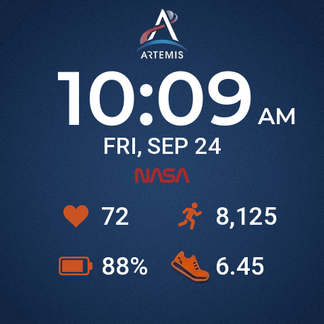
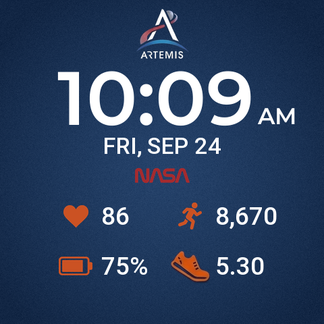
feat: add AOD mode and align watchface with Zepp OS specification

diff --git a/watchface/index.js b/watchface/index.js
@@ -3,6 +3,7 @@ import { Time, Battery, HeartRate, Step, Distance } from '@zos/sensor'
 import { getLanguage, getDistanceUnit, DISTANCE_UNIT_METRIC } from '@zos/settings'
 import { formatDate } from './date-format.js'
 import { nextChargingState } from './charging.js'
+import { formatDistance, formatThousands } from './number-format.js'
 
 // Layout constants -- keep in sync with the constants of the same name in
 // tools/generate_assets.py (measured from design/watch-face-circle.png).
@@ -22,14 +23,22 @@ const STAT_TEXT_X_RIGHT = 319
 const STAT_ROW_Y_TOP = 320
 const STAT_ROW_Y_BOTTOM = 394
 
-// battery.png / battery_charging.png position, printed by
-// tools/generate_assets.py as "battery device pos/size".
-const BATTERY_X = 87
-const BATTERY_Y = 374
+// Icon widget positions, printed by tools/generate_assets.py as
+// "power device pos/size" and "step device pos/size".
+const POWER_X = 87
+const POWER_Y = 374
+const STEP_X = 264
+const STEP_Y = 300
 
 const TIME_FONT = 'fonts/Montserrat-SemiBold.ttf'
 const TEXT_FONT = 'fonts/Roboto-Medium.ttf'
 const WHITE = 0xffffff
+
+// AOD (screen-off) shows only time, date and steps on black -- the spec's
+// priority fields, kept under its 10% lit-pixel limit (checked by
+// tools/generate_assets.py). The Zepp OS constant really is spelled ONAL_AOD.
+const NORMAL = hmUI.show_level.ONLY_NORMAL
+const NORMAL_AND_AOD = hmUI.show_level.ONLY_NORMAL | hmUI.show_level.ONAL_AOD
 
 const METERS_PER_MILE = 1609.344
 const TIME_HOUR_FORMAT_12 = 12
@@ -38,11 +47,7 @@ function pad2(n) {
   return n < 10 ? `0${n}` : `${n}`
 }
 
-function formatThousands(n) {
-  return String(n).replace(/\B(?=(\d{3})+(?!\d))/g, ',')
-}
-
-function centeredText(x, centerY, w, h, textSize, font, alignH) {
+function centeredText({ x, centerY, w, h, textSize, font, alignH, showLevel }) {
   return hmUI.createWidget(hmUI.widget.TEXT, {
     x,
     y: centerY - h / 2,
@@ -55,7 +60,18 @@ function centeredText(x, centerY, w, h, textSize, font, alignH) {
     text_size: textSize,
     font,
     text: '',
+    show_level: showLevel,
   })
+}
+
+function statText(x, centerY, w, showLevel) {
+  return centeredText({
+    x, centerY, w, h: 50, textSize: STAT_TEXT_SIZE, font: TEXT_FONT, alignH: hmUI.align.LEFT, showLevel,
+  })
+}
+
+function icon(x, y, src, showLevel) {
+  return hmUI.createWidget(hmUI.widget.IMG, { x, y, src, show_level: showLevel })
 }
 
 WatchFace({
@@ -74,19 +90,29 @@ WatchFace({
   },
 
   build() {
-    hmUI.createWidget(hmUI.widget.IMG, { x: 0, y: 0, src: 'bg.png' })
+    icon(0, 0, 'bg.png', NORMAL)
 
-    this.timeText = centeredText(0, TIME_CENTER_Y, TIME_RIGHT_X, 130, TIME_TEXT_SIZE, TIME_FONT, hmUI.align.RIGHT)
-    this.ampmText = centeredText(AMPM_X, AMPM_CENTER_Y, 70, 50, AMPM_TEXT_SIZE, TIME_FONT, hmUI.align.LEFT)
-    this.dateText = centeredText(0, DATE_CENTER_Y, 480, 50, DATE_TEXT_SIZE, TEXT_FONT, hmUI.align.CENTER_H)
+    this.timeText = centeredText({
+      x: 0, centerY: TIME_CENTER_Y, w: TIME_RIGHT_X, h: 130, textSize: TIME_TEXT_SIZE,
+      font: TIME_FONT, alignH: hmUI.align.RIGHT, showLevel: NORMAL_AND_AOD,
+    })
+    this.ampmText = centeredText({
+      x: AMPM_X, centerY: AMPM_CENTER_Y, w: 70, h: 50, textSize: AMPM_TEXT_SIZE,
+      font: TIME_FONT, alignH: hmUI.align.LEFT, showLevel: NORMAL_AND_AOD,
+    })
+    this.dateText = centeredText({
+      x: 0, centerY: DATE_CENTER_Y, w: 480, h: 50, textSize: DATE_TEXT_SIZE,
+      font: TEXT_FONT, alignH: hmUI.align.CENTER_H, showLevel: NORMAL_AND_AOD,
+    })
 
-    this.heartRateText = centeredText(STAT_TEXT_X_LEFT, STAT_ROW_Y_TOP, 110, 50, STAT_TEXT_SIZE, TEXT_FONT, hmUI.align.LEFT)
-    this.stepsText = centeredText(STAT_TEXT_X_RIGHT, STAT_ROW_Y_TOP, 150, 50, STAT_TEXT_SIZE, TEXT_FONT, hmUI.align.LEFT)
-    this.batteryText = centeredText(STAT_TEXT_X_LEFT, STAT_ROW_Y_BOTTOM, 110, 50, STAT_TEXT_SIZE, TEXT_FONT, hmUI.align.LEFT)
-    this.distanceText = centeredText(STAT_TEXT_X_RIGHT, STAT_ROW_Y_BOTTOM, 150, 50, STAT_TEXT_SIZE, TEXT_FONT, hmUI.align.LEFT)
+    this.heartRateText = statText(STAT_TEXT_X_LEFT, STAT_ROW_Y_TOP, 110, NORMAL)
+    this.stepsText = statText(STAT_TEXT_X_RIGHT, STAT_ROW_Y_TOP, 150, NORMAL_AND_AOD)
+    this.batteryText = statText(STAT_TEXT_X_LEFT, STAT_ROW_Y_BOTTOM, 110, NORMAL)
+    this.distanceText = statText(STAT_TEXT_X_RIGHT, STAT_ROW_Y_BOTTOM, 150, NORMAL)
 
-    this.batteryIcon = hmUI.createWidget(hmUI.widget.IMG, { x: BATTERY_X, y: BATTERY_Y, src: 'battery.png' })
-    this.batteryChargingIcon = hmUI.createWidget(hmUI.widget.IMG, { x: BATTERY_X, y: BATTERY_Y, src: 'battery_charging.png' })
+    icon(STEP_X, STEP_Y, 'step.png', NORMAL_AND_AOD)
+    this.powerIcon = icon(POWER_X, POWER_Y, 'power.png', NORMAL)
+    this.powerChargingIcon = icon(POWER_X, POWER_Y, 'power_charging.png', NORMAL)
 
     this.onMinute = () => {
       this.updateTime()
@@ -143,8 +169,8 @@ WatchFace({
     this.lastBatteryPercent = percent
 
     this.batteryText.setProperty(hmUI.prop.TEXT, `${percent}%`)
-    this.batteryIcon.setProperty(hmUI.prop.VISIBLE, !this.isCharging)
-    this.batteryChargingIcon.setProperty(hmUI.prop.VISIBLE, this.isCharging)
+    this.powerIcon.setProperty(hmUI.prop.VISIBLE, !this.isCharging)
+    this.powerChargingIcon.setProperty(hmUI.prop.VISIBLE, this.isCharging)
   },
 
   updateHeartRate() {
@@ -160,7 +186,7 @@ WatchFace({
     const meters = this.distance.getCurrent()
     const isMetric = getDistanceUnit() === DISTANCE_UNIT_METRIC
     const value = isMetric ? meters / 1000 : meters / METERS_PER_MILE
-    this.distanceText.setProperty(hmUI.prop.TEXT, value.toFixed(2))
+    this.distanceText.setProperty(hmUI.prop.TEXT, formatDistance(value))
   },
 
   onDestroy() {

diff --git a/tools/number-format.test.js b/tools/number-format.test.js
@@ -1,0 +1,27 @@
+import { test } from 'node:test'
+import assert from 'node:assert/strict'
+import { formatDistance, formatThousands } from '../watchface/number-format.js'
+
+test('formats distance below 10 with two decimals', () => {
+  assert.equal(formatDistance(0), '0.00')
+  assert.equal(formatDistance(5.3), '5.30')
+  assert.equal(formatDistance(9.994), '9.99')
+})
+
+test('formats distance from 10 with one decimal to stay within 4 digits', () => {
+  assert.equal(formatDistance(9.996), '10.0')
+  assert.equal(formatDistance(12.345), '12.3')
+  assert.equal(formatDistance(99.94), '99.9')
+})
+
+test('formats distance from 100 as a whole number', () => {
+  assert.equal(formatDistance(99.96), '100')
+  assert.equal(formatDistance(123.4), '123')
+})
+
+test('groups thousands with commas', () => {
+  assert.equal(formatThousands(0), '0')
+  assert.equal(formatThousands(999), '999')
+  assert.equal(formatThousands(8670), '8,670')
+  assert.equal(formatThousands(99999), '99,999')
+})

diff --git a/watchface/number-format.js b/watchface/number-format.js
@@ -1,0 +1,15 @@
+// Pure number-formatting helpers, kept free of Zepp OS APIs so they can run
+// under plain `node --test` as well as on-device.
+
+// The watchface spec caps distance at 4 digits ("0.00" / "00.0"), so
+// precision drops as the value grows. Rounding is checked first so that
+// e.g. 9.996 becomes "10.0" rather than "10.00".
+export function formatDistance(value) {
+  if (Number(value.toFixed(2)) < 10) return value.toFixed(2)
+  if (Number(value.toFixed(1)) < 100) return value.toFixed(1)
+  return value.toFixed(0)
+}
+
+export function formatThousands(n) {
+  return String(n).replace(/\B(?=(\d{3})+(?!\d))/g, ',')
+}

diff --git a/tools/generate_assets.py b/tools/generate_assets.py
@@ -64,8 +64,26 @@ STAT_ROW_Y_BOTTOM = 394
 ICON_CENTER_X_LEFT = 112
 ICON_CENTER_X_RIGHT = 282
 
-# Battery icons are runtime widgets (normal/charging swap), not baked in.
-BATTERY_ICON_W = 50
+# Runtime icon widgets rather than baked into bg.png: step also shows in AOD
+# (screen-off) mode, where bg.png is hidden, and power swaps between its
+# normal and charging image.
+POWER_ICON_W = 50
+STEP_ICON_W = 35
+
+# Default preview data from the Zepp OS watchface specification.
+PREVIEW_TIME = "10:09"
+PREVIEW_HEART = "86"
+PREVIEW_STEPS = "8,670"
+PREVIEW_POWER = "75%"
+PREVIEW_DISTANCE = "5.30"
+
+# AOD rule from the specification: lit pixels must stay under 10% of the
+# screen. Checked with the widest, most-ink values each AOD field can show.
+AOD_MAX_LIT_RATIO = 0.10
+AOD_WORST_TIME = "20:08"
+AOD_WORST_AMPM = "PM"
+AOD_WORST_DATE = "WED, SEP 28"
+AOD_WORST_STEPS = "88,888"
 
 
 def font(filename, size):
@@ -150,18 +168,23 @@ SHOE_BOX = (528, 685, 632, 770)
 
 # Union bbox of the body/bolt in both battery design files, so the normal and
 # charging icons share one canvas and swap in place.
-BATTERY_SRC_BOX = (202, 556, 567, 844)
+POWER_SRC_BOX = (202, 556, 567, 844)
 
 
-def battery_icons():
-    """battery.png / battery_charging.png on one shared canvas size."""
-    body_src_w = BATTERY_SRC_BOX[2] - BATTERY_SRC_BOX[0]
+def power_icons():
+    """power.png / power_charging.png on one shared canvas size."""
+    body_src_w = POWER_SRC_BOX[2] - POWER_SRC_BOX[0]
     normal = key_by_saturation(os.path.join(DESIGN_DIR, "battery-icon.png"),
-                               BATTERY_SRC_BOX, ICON_ORANGE)
+                               POWER_SRC_BOX, ICON_ORANGE)
     charging = key_by_saturation(os.path.join(DESIGN_DIR, "battery-charged-icon.png"),
-                                 BATTERY_SRC_BOX)
-    size = (BATTERY_ICON_W, round(normal.height * BATTERY_ICON_W / body_src_w))
+                                 POWER_SRC_BOX)
+    size = (POWER_ICON_W, round(normal.height * POWER_ICON_W / body_src_w))
     return resize_rgba(normal, size), resize_rgba(charging, size)
+
+
+def step_icon():
+    return scaled_to_width(key_by_saturation(os.path.join(DESIGN_DIR, "steps-icon.png"),
+                                             color=ICON_ORANGE), STEP_ICON_W)
 
 
 def build_background():
@@ -178,59 +201,95 @@ def build_background():
                                               color=ICON_ORANGE), 37)
     paste_centered(im, heart, ICON_CENTER_X_LEFT, STAT_ROW_Y_TOP)
 
-    steps = scaled_to_width(key_by_saturation(os.path.join(DESIGN_DIR, "steps-icon.png"),
-                                              color=ICON_ORANGE), 35)
-    paste_centered(im, steps, ICON_CENTER_X_RIGHT, STAT_ROW_Y_TOP)
-
     shoe, _ = mockup_icon(SHOE_BOX)
     paste_centered(im, shoe, ICON_CENTER_X_RIGHT, STAT_ROW_Y_BOTTOM)
 
     return im
 
 
-def battery_position(icon):
-    """Top-left of the battery widget -- printed for watchface/index.js."""
-    return (round(ICON_CENTER_X_LEFT - icon.width / 2),
-            round(STAT_ROW_Y_BOTTOM - icon.height / 2))
+def centered_position(icon, cx, cy):
+    """Top-left of a runtime icon widget -- printed for watchface/index.js."""
+    return (round(cx - icon.width / 2), round(cy - icon.height / 2))
 
 
-def render_preview(bg, battery, battery_pos):
-    """Composite a sample frame matching the mockup values, for icon.png /
-    preview.png. Text anchors mirror the device widgets' align settings."""
-    im = bg.copy()
-    im.alpha_composite(battery, battery_pos)
-    d = ImageDraw.Draw(im)
-
-    d.text((TIME_RIGHT_X, TIME_CENTER_Y), "10:09", font=font(TIME_FONT, TIME_TEXT_SIZE),
+def draw_time_and_date(d, time, ampm, date):
+    d.text((TIME_RIGHT_X, TIME_CENTER_Y), time, font=font(TIME_FONT, TIME_TEXT_SIZE),
            fill=WHITE, anchor="rm")
-    d.text((AMPM_X, AMPM_CENTER_Y), "AM", font=font(TIME_FONT, AMPM_TEXT_SIZE),
+    d.text((AMPM_X, AMPM_CENTER_Y), ampm, font=font(TIME_FONT, AMPM_TEXT_SIZE),
            fill=WHITE, anchor="lm")
-    d.text((CX, DATE_CENTER_Y), "FRI, SEP 24", font=font(TEXT_FONT, DATE_TEXT_SIZE),
+    d.text((CX, DATE_CENTER_Y), date, font=font(TEXT_FONT, DATE_TEXT_SIZE),
            fill=WHITE, anchor="mm")
 
+
+def draw_stats(d, stats):
     f_stat = font(TEXT_FONT, STAT_TEXT_SIZE)
-    for x, y, text in [
-        (STAT_TEXT_X_LEFT, STAT_ROW_Y_TOP, "72"),
-        (STAT_TEXT_X_RIGHT, STAT_ROW_Y_TOP, "8,125"),
-        (STAT_TEXT_X_LEFT, STAT_ROW_Y_BOTTOM, "88%"),
-        (STAT_TEXT_X_RIGHT, STAT_ROW_Y_BOTTOM, "6.45"),
-    ]:
+    for x, y, text in stats:
         d.text((x, y), text, font=f_stat, fill=WHITE, anchor="lm")
+
+
+def render_preview(bg, icons):
+    """Normal-mode sample frame with the spec's default data, for icon.png /
+    preview.png. Text anchors mirror the device widgets' align settings."""
+    im = bg.copy()
+    for icon, pos in icons:
+        im.alpha_composite(icon, pos)
+    d = ImageDraw.Draw(im)
+    draw_time_and_date(d, PREVIEW_TIME, "AM", "FRI, SEP 24")
+    draw_stats(d, [
+        (STAT_TEXT_X_LEFT, STAT_ROW_Y_TOP, PREVIEW_HEART),
+        (STAT_TEXT_X_RIGHT, STAT_ROW_Y_TOP, PREVIEW_STEPS),
+        (STAT_TEXT_X_LEFT, STAT_ROW_Y_BOTTOM, PREVIEW_POWER),
+        (STAT_TEXT_X_RIGHT, STAT_ROW_Y_BOTTOM, PREVIEW_DISTANCE),
+    ])
     return im
+
+
+def render_aod(step, step_pos, time, ampm, date, steps):
+    """AOD (screen-off) frame: black background with time, date and steps --
+    the spec's top-priority fields -- at the same positions as normal mode so
+    nothing jumps on switch."""
+    im = Image.new("RGBA", (W, H), (0, 0, 0, 255))
+    im.alpha_composite(step, step_pos)
+    d = ImageDraw.Draw(im)
+    draw_time_and_date(d, time, ampm, date)
+    draw_stats(d, [(STAT_TEXT_X_RIGHT, STAT_ROW_Y_TOP, steps)])
+    return im
+
+
+def lit_ratio(im):
+    """Share of the round display's pixels that are visibly lit."""
+    rgb = np.array(im.convert("RGB")).astype(int)
+    ys, xs = np.mgrid[0:H, 0:W]
+    on_screen = np.hypot(xs - CX + 0.5, ys - CY + 0.5) <= 240
+    lit = rgb.max(axis=2) > 32
+    return (lit & on_screen).sum() / on_screen.sum()
 
 
 def main():
     bg = build_background()
     bg.convert("RGB").save(os.path.join(ASSET_DIR, "bg.png"))
 
-    battery, battery_charging = battery_icons()
-    battery.save(os.path.join(ASSET_DIR, "battery.png"))
-    battery_charging.save(os.path.join(ASSET_DIR, "battery_charging.png"))
-    battery_pos = battery_position(battery)
-    print("battery device pos/size", battery_pos, battery.size)
+    power, power_charging = power_icons()
+    power.save(os.path.join(ASSET_DIR, "power.png"))
+    power_charging.save(os.path.join(ASSET_DIR, "power_charging.png"))
+    power_pos = centered_position(power, ICON_CENTER_X_LEFT, STAT_ROW_Y_BOTTOM)
+    print("power device pos/size", power_pos, power.size)
 
-    preview = render_preview(bg, battery, battery_pos)
+    step = step_icon()
+    step.save(os.path.join(ASSET_DIR, "step.png"))
+    step_pos = centered_position(step, ICON_CENTER_X_RIGHT, STAT_ROW_Y_TOP)
+    print("step device pos/size", step_pos, step.size)
+
+    preview = render_preview(bg, [(power, power_pos), (step, step_pos)])
     preview.save(os.path.join(ROOT, "tools", "_preview_full.png"))
+
+    aod = render_aod(step, step_pos, PREVIEW_TIME, "AM", "FRI, SEP 24", PREVIEW_STEPS)
+    aod.save(os.path.join(ROOT, "tools", "_preview_aod.png"))
+    ratio = lit_ratio(render_aod(step, step_pos, AOD_WORST_TIME, AOD_WORST_AMPM,
+                                 AOD_WORST_DATE, AOD_WORST_STEPS))
+    print(f"AOD lit pixels, worst case: {ratio:.1%} (limit {AOD_MAX_LIT_RATIO:.0%})")
+    if ratio > AOD_MAX_LIT_RATIO:
+        raise SystemExit("AOD layout lights too many pixels -- trim AOD elements")
 
     # zeus build resizes icon.png to the device previewSize (324x324 on
     # Cheetah Pro) for the Zepp app gallery; ship it at that size already.

diff --git a/README.md b/README.md
@@ -9,8 +9,9 @@ A Zepp OS watchface for the Amazfit Cheetah Pro (480x480, round), themed after N
 - Time in 12h (with AM/PM) or 24h, following the watch setting
 - Date as `FRI, SEP 24`, or `T6, 24/09` when the watch language is Vietnamese
 - Heart rate, steps, battery percentage and distance
-- Distance in km or miles, following the watch's unit setting
+- Distance in km or miles, following the watch's unit setting, capped at 4 digits (`5.30`, `12.3`)
 - Battery icon switches to a charging icon while the battery percentage is rising
+- Always-On Display (AOD) mode: time, date and steps on black
 
 ## Project structure
 
@@ -21,6 +22,7 @@ watchface/
   index.js                Watchface layout and sensor bindings
   date-format.js          Date string formatting (EN / VI)
   charging.js             Charging-state heuristic
+  number-format.js        Step and distance formatting
 assets/480x480-amazfit-cheetah-pro/
                           Generated images and bundled fonts shipped to the device
 design/                   Source mockups and icons
@@ -46,6 +48,11 @@ zeus build                # build the .zab package into dist/
 - **Layout** is measured from `design/watch-face-circle.png`. The layout constants in `tools/generate_assets.py` and `watchface/index.js` must stay in sync.
 - **Icon extraction:** the PNGs in `design/` have a checkerboard painted in rather than real transparency. `generate_assets.py` keys single-color icons out by saturation. It keys the Artemis logo and the shoe out of the mockup against the navy dial.
 - **Charging state:** Zepp OS does not expose a charging status to watchfaces. The charging icon is shown when the battery percentage rises and hidden when it falls. It appears only after the first 1% increase, and stays after unplugging at 100% until the percentage drops.
+- **Zepp OS specification:** the watchface follows the [watchface specification](https://docs.zepp.com/docs/watchface/specification) and the [AOD design principles](https://docs.zepp.com/docs/designs/customization/screen-off-mode/#design-principles):
+  - AOD uses a pure black background. It shows only the top-priority fields (time, date, steps), at the same positions as normal mode.
+  - `generate_assets.py` fails if worst-case AOD content lights more than 10% of the screen.
+  - The preview uses the spec's default data.
+  - Assets follow the spec's naming rule (`bg`, `power`, `step`).
 - **API level:** the app targets API 3.5 (minimum 2.0), so widgets are updated with `setProperty`. Property setters require API 4.0.
 
 ## Credits and licenses
